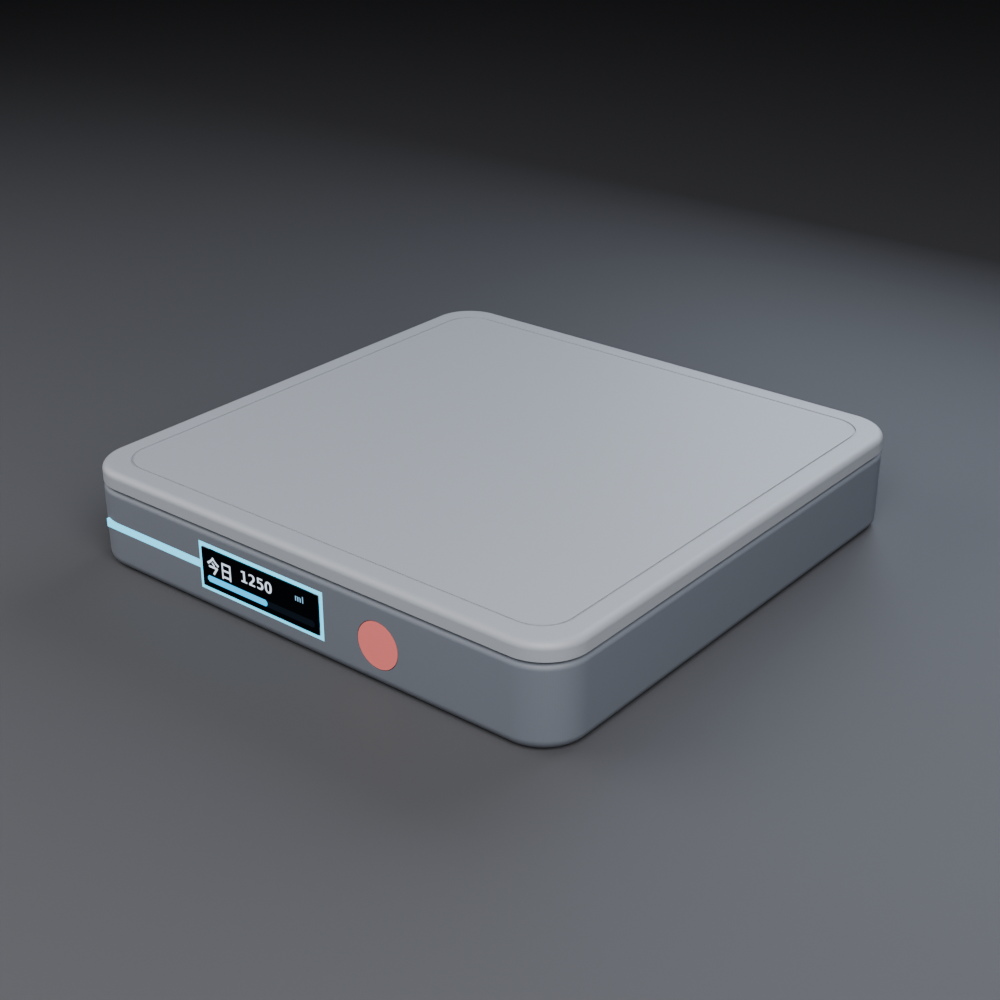
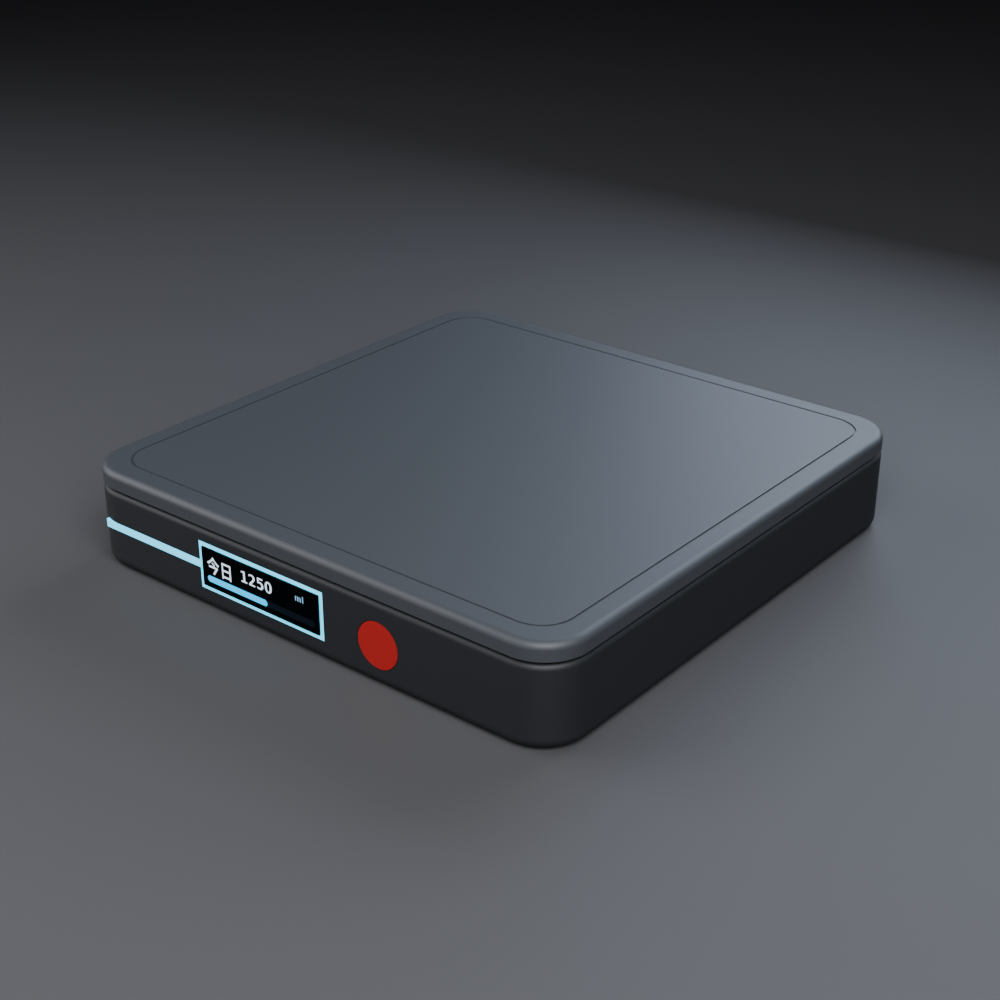
fix(p3): CMF variants use sRGB->linear conversion (correct deep colors), remount

Changed region(s): [[0.093, 0.31, 0.899, 0.744]]

diff --git a/render/cmf/make_variants.py b/render/cmf/make_variants.py
@@ -12,15 +12,21 @@ OUT = f"{ROOT}/render/cmf"
 BACK = f"{OUT}/config_base.json"
 BLENDER = "/data/Documents/tools/blender/blender"
 
+def lin(h):
+    """sRGB hex -> linear (Blender base_color expects linear)."""
+    c = [int(h[i:i + 2], 16) / 255.0 for i in (0, 2, 4)]
+    return [x / 12.92 if x <= 0.04045 else ((x + 0.055) / 1.055) ** 2.4 for x in c]
+
+
 VARIANTS = {
-    "lumen_violet": {"plate": [0.42, 0.25, 0.63], "shell": [0.16, 0.18, 0.21],
-                     "button": [0.42, 0.25, 0.63]},
-    "moss":         {"plate": [0.31, 0.42, 0.29], "shell": [0.17, 0.19, 0.17],
-                     "button": [0.31, 0.42, 0.29]},
-    "sand":         {"plate": [0.79, 0.72, 0.60], "shell": [0.23, 0.21, 0.19],
-                     "button": [0.79, 0.72, 0.60]},
-    "graphite":     {"plate": [0.23, 0.24, 0.26], "shell": [0.11, 0.12, 0.14],
-                     "button": [0.58, 0.16, 0.15]},
+    "lumen_violet": {"plate": lin("6B40A0"), "shell": lin("2A2E35"),
+                     "button": lin("6B40A0")},
+    "moss":         {"plate": lin("4F6B4A"), "shell": lin("2B302B"),
+                     "button": lin("4F6B4A")},
+    "sand":         {"plate": lin("C9B79A"), "shell": lin("3A3530"),
+                     "button": lin("C9B79A")},
+    "graphite":     {"plate": lin("3A3D42"), "shell": lin("1E2024"),
+                     "button": lin("942826")},
 }
 
 os.makedirs(OUT, exist_ok=True)
